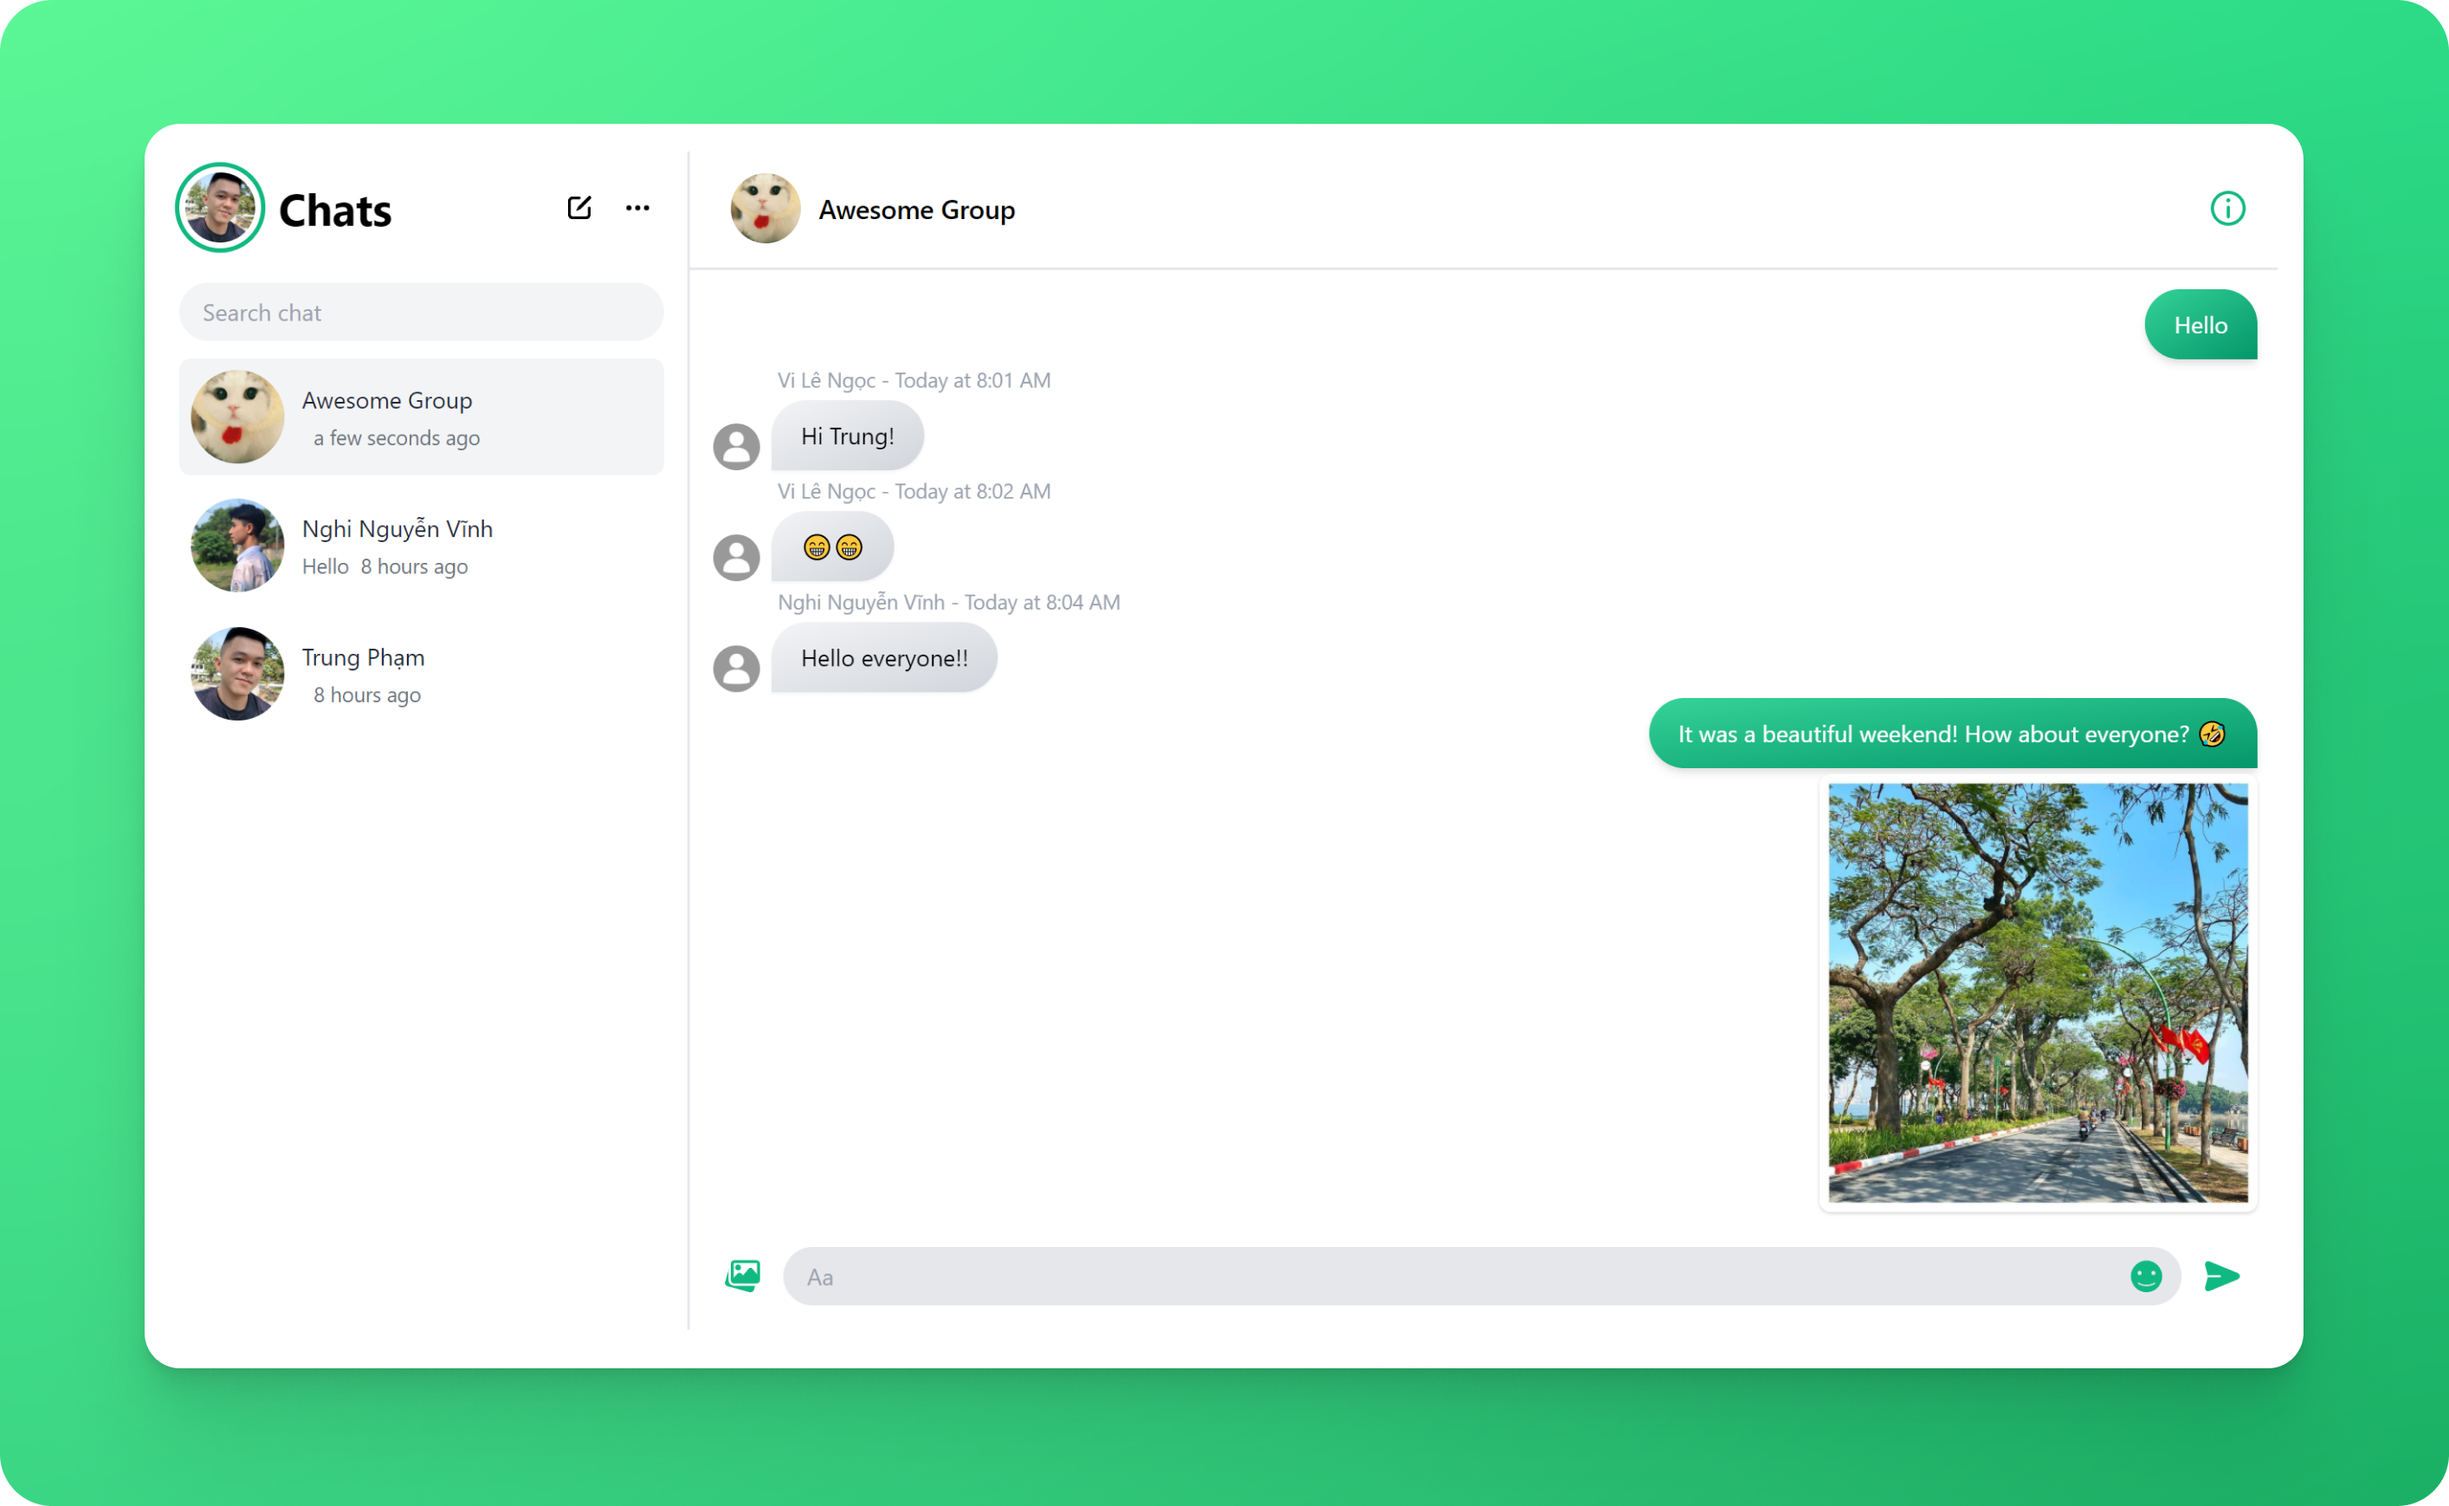
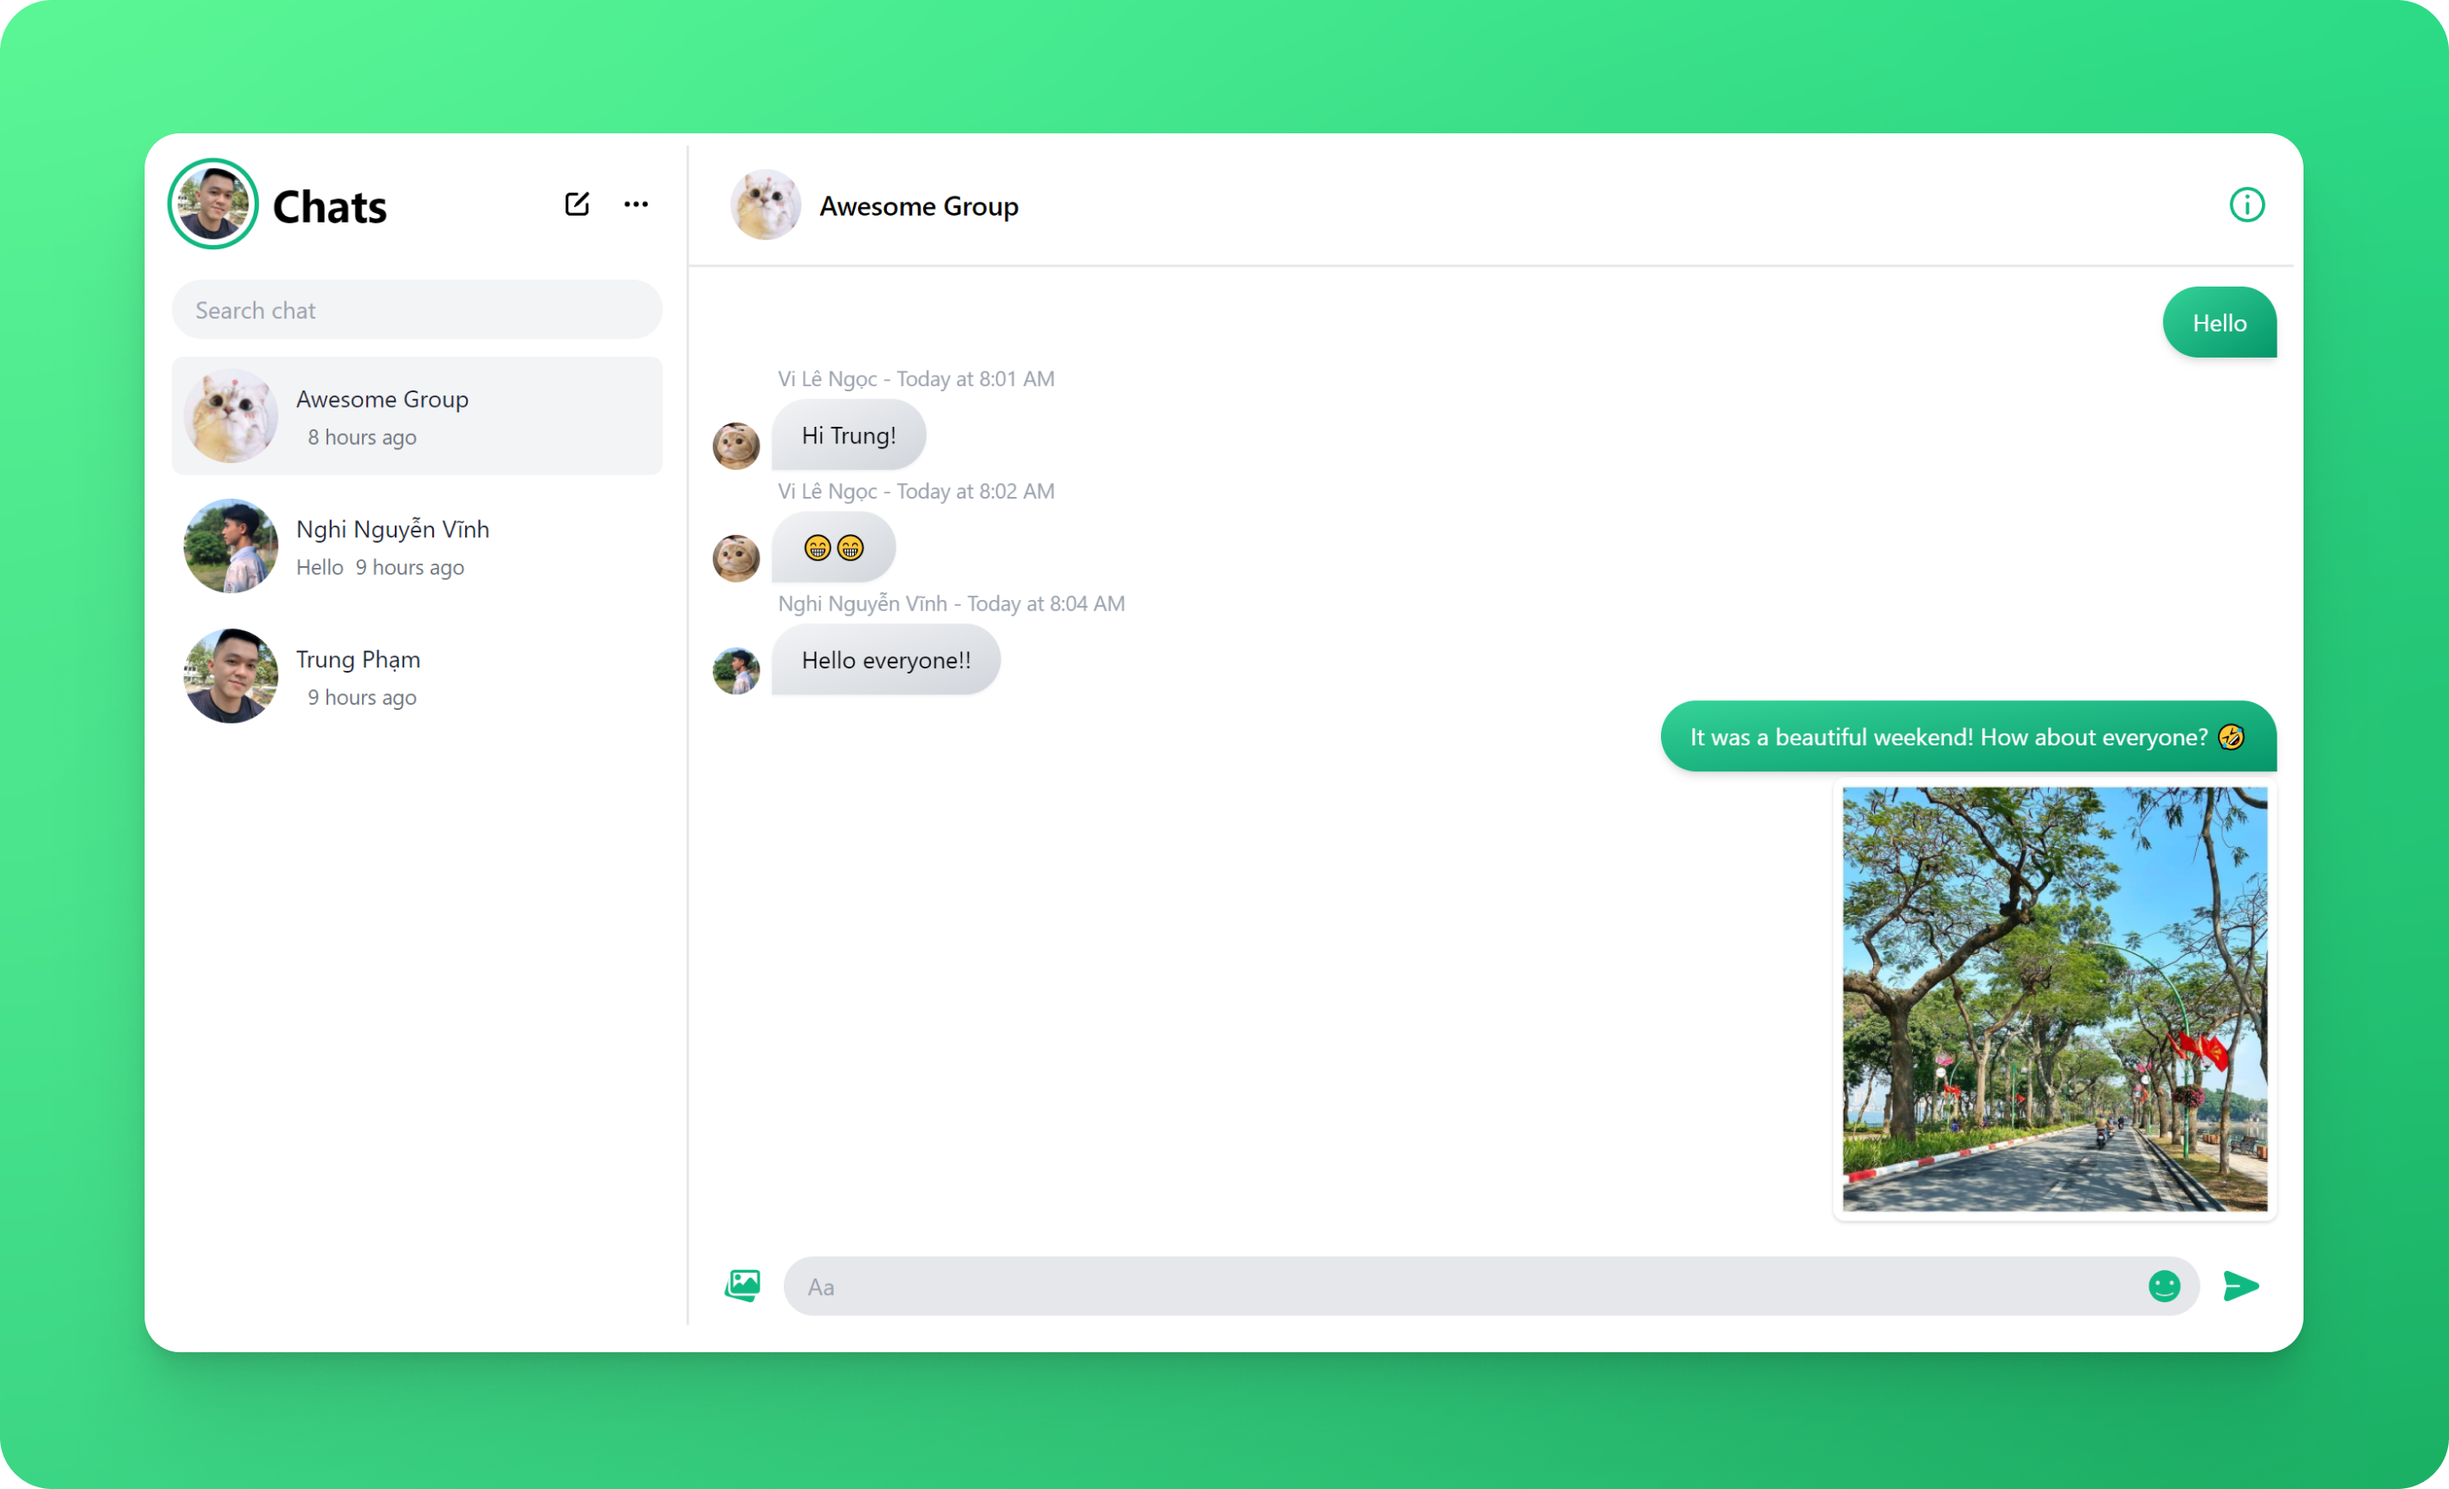
Fix: Loader

diff --git a/Client/src/components/ChatWindow/index.jsx b/Client/src/components/ChatWindow/index.jsx
@@ -175,7 +175,11 @@ function ChatWindow({ chat }) {
                   className="flex items-end space-x-2"
                 >
                   <img
-                    src={message.senderAvatarUrl ?? DefaultAvatar}
+                    src={
+                      chat.participants
+                        .filter((x) => x.userName === message.senderUserName)
+                        .shift()?.avatarUrl ?? DefaultAvatar
+                    }
                     alt="Avatar"
                     className="h-8 w-8 rounded-full object-cover"
                   />

diff --git a/Client/src/components/Loader/index.jsx b/Client/src/components/Loader/index.jsx
@@ -13,7 +13,7 @@ const Loader = ({ className, isOpen = true }) => {
     isOpen && (
       <div
         className={
-          "z-50  animate-fade flex h-screen w-screen justify-center items-center fixed transition-all duration-200 bg-white bg-opacity-80" +
+          "z-50  animate-fade flex h-screen w-screen justify-center items-center fixed transition-all duration-200 bg-white" +
           (isEnding ? " hidden" : "") +
           (" " + className ?? "")
         }
